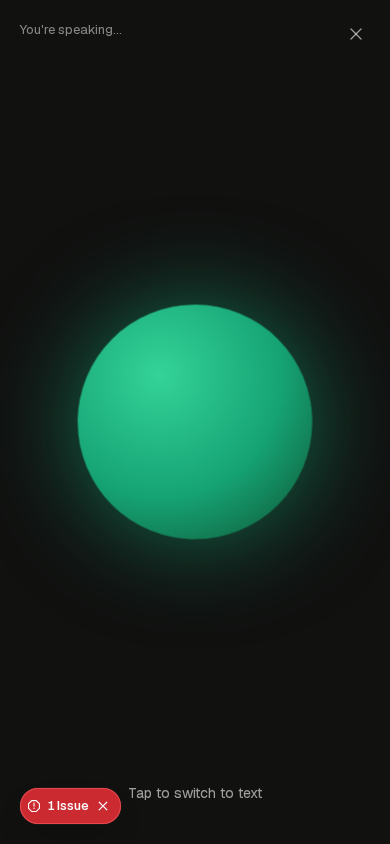
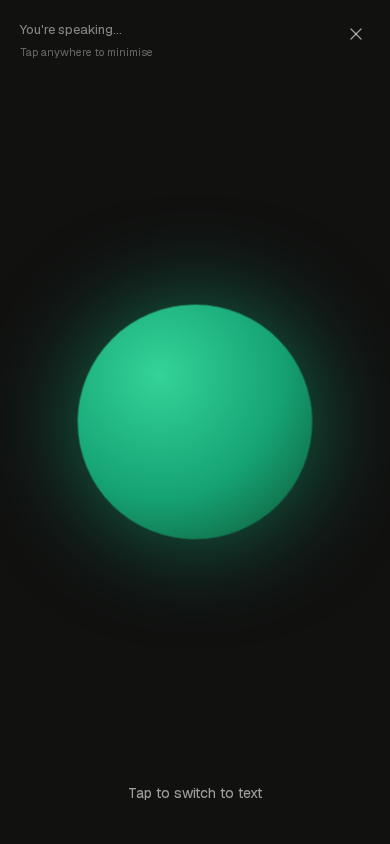
feat: implement conditional animation for waveform bars and update VoiceOrbTakeover component

Changed region(s): [[0.0308, 0.9242, 0.3077, 0.9858]]

diff --git a/apps/web/app/globals.css b/apps/web/app/globals.css
@@ -421,13 +421,36 @@
     animation-timing-function: ease-in-out;
     animation-iteration-count: infinite;
   }
-  .gv-wave-bar:nth-child(1) { height: 6px;  animation-name: gv-wave1; animation-delay: 0s; }
-  .gv-wave-bar:nth-child(2) { height: 20px; animation-name: gv-wave2; animation-delay: 0.08s; }
-  .gv-wave-bar:nth-child(3) { height: 10px; animation-name: gv-wave3; animation-delay: 0.16s; }
-  .gv-wave-bar:nth-child(4) { height: 16px; animation-name: gv-wave4; animation-delay: 0.24s; }
-  .gv-wave-bar:nth-child(5) { height: 8px;  animation-name: gv-wave5; animation-delay: 0.32s; }
-  .gv-wave-bar:nth-child(6) { height: 18px; animation-name: gv-wave6; animation-delay: 0.4s; }
-  .gv-wave-bar:nth-child(7) { height: 12px; animation-name: gv-wave7; animation-delay: 0.48s; }
+  /* Resting heights are unconditional, so a frozen waveform still reads as a
+     waveform rather than seven identical stubs. */
+  .gv-wave-bar:nth-child(1) { height: 6px; }
+  .gv-wave-bar:nth-child(2) { height: 20px; }
+  .gv-wave-bar:nth-child(3) { height: 10px; }
+  .gv-wave-bar:nth-child(4) { height: 16px; }
+  .gv-wave-bar:nth-child(5) { height: 8px; }
+  .gv-wave-bar:nth-child(6) { height: 18px; }
+  .gv-wave-bar:nth-child(7) { height: 12px; }
+
+  /* Motion is OPT-IN via `no-preference` rather than switched off later under
+     `reduce`. Two reasons, the second learned the hard way:
+       1. Nothing needs to win a cascade fight — under `reduce` no animation-name
+          is ever assigned, so there is no override to lose.
+       2. The override approach genuinely did lose. Per-bar rules carry
+          `:nth-child(N)` (0,2,0) and a media query adds no specificity, so a
+          plain `.gv-wave-bar { animation: none }` (0,1,0) never applied. Raising
+          the override to `.gv-wave-bar:nth-child(n)` did not survive either:
+          Lightning CSS correctly simplifies `:nth-child(n)` to `.gv-wave-bar`,
+          silently deleting the specificity bump at build time. Verified in the
+          SERVED css, not the source. */
+  @media (prefers-reduced-motion: no-preference) {
+    .gv-wave-bar:nth-child(1) { animation-name: gv-wave1; animation-delay: 0s; }
+    .gv-wave-bar:nth-child(2) { animation-name: gv-wave2; animation-delay: 0.08s; }
+    .gv-wave-bar:nth-child(3) { animation-name: gv-wave3; animation-delay: 0.16s; }
+    .gv-wave-bar:nth-child(4) { animation-name: gv-wave4; animation-delay: 0.24s; }
+    .gv-wave-bar:nth-child(5) { animation-name: gv-wave5; animation-delay: 0.32s; }
+    .gv-wave-bar:nth-child(6) { animation-name: gv-wave6; animation-delay: 0.4s; }
+    .gv-wave-bar:nth-child(7) { animation-name: gv-wave7; animation-delay: 0.48s; }
+  }
 
   @keyframes gv-orb-pulse-user {
     0%, 100% { transform: scale(1);    box-shadow: 0 0 70px rgba(22, 163, 116, 0.5); }
@@ -443,10 +466,11 @@
   @media (prefers-reduced-motion: reduce) {
     .hover-lift:hover { transform: none; }
     .status-live { animation: none; }
-    /* Voice UI falls back to a static mark. The bars keep their per-bar resting
-       height above, so the waveform still reads as a waveform when frozen
-       instead of collapsing into seven identical stubs. */
-    .gv-wave-bar,
+    /* The orbs are safe to switch off here: their base rules are plain classes
+       (0,1,0), so an equal-specificity override later in source order wins. The
+       waveform bars are NOT listed — they never receive an animation under
+       `reduce` in the first place (see the no-preference block above), which is
+       why they need no override. */
     .gv-orb-user,
     .gv-orb-agent { animation: none; }
   }

diff --git a/apps/web/components/gravitre/assistant/voice-presentation.tsx b/apps/web/components/gravitre/assistant/voice-presentation.tsx
@@ -24,7 +24,7 @@
  * absence, because it would read as wired.
  */
 
-import { useEffect } from "react"
+import { useEffect, useRef } from "react"
 import { X } from "lucide-react"
 import { cn } from "@/lib/utils"
 
@@ -119,6 +119,18 @@ export function VoiceOrbTakeover({
     return () => window.removeEventListener("keydown", onKeyDown)
   }, [onCollapse])
 
+  // `aria-modal="true"` asserts that everything behind this overlay is
+  // unreachable, so focus has to actually move inside it — otherwise a keyboard or
+  // screen-reader user stays parked on the composer underneath, tabbing through
+  // controls the overlay claims are gone. Focus lands on collapse (the least
+  // destructive control) and is restored to the opener on unmount.
+  const collapseRef = useRef<HTMLButtonElement>(null)
+  useEffect(() => {
+    const opener = document.activeElement as HTMLElement | null
+    collapseRef.current?.focus()
+    return () => opener?.focus?.()
+  }, [])
+
   const isUser = speaker === "user"
   const label = isUser ? "You're speaking…" : `${agentLabel} is speaking…`
 
@@ -138,14 +150,24 @@ export function VoiceOrbTakeover({
           because a full-surface button is otherwise unannounced.
         */}
         <button
+          ref={collapseRef}
           type="button"
           onClick={onCollapse}
           aria-label="Return to inline waveform, stay in voice mode"
           className="absolute inset-0 z-0 cursor-default focus-visible:outline-none focus-visible:ring-2 focus-visible:ring-inset focus-visible:ring-white/40"
         />
 
-        <span className="pointer-events-none absolute left-5 top-5 z-10 text-[13px] text-[rgba(255,255,255,0.5)]">
+        <span className="pointer-events-none absolute left-5 top-5 z-10 flex flex-col gap-1 text-[13px] text-[rgba(255,255,255,0.5)]">
           {label}
+          {/*
+            The centre-tap gesture is invisible, and the bottom control reads
+            "Tap to switch to text" — so without this hint the most natural
+            reading is that tapping anywhere switches to text, when it actually
+            minimises. Naming the gesture is what separates the two outcomes.
+          */}
+          <span className="text-[11px] text-[rgba(255,255,255,0.35)]">
+            Tap anywhere to minimise
+          </span>
         </span>
 
         <button
